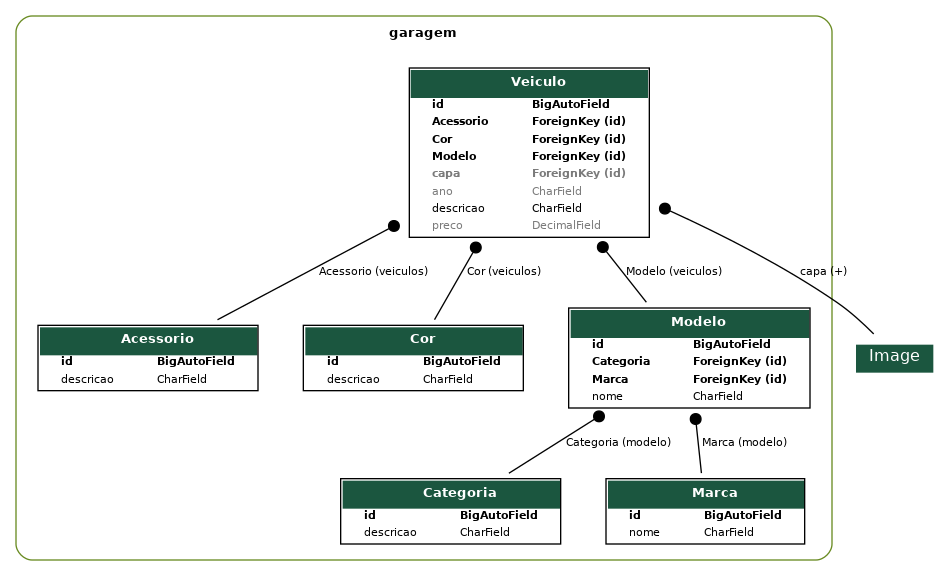
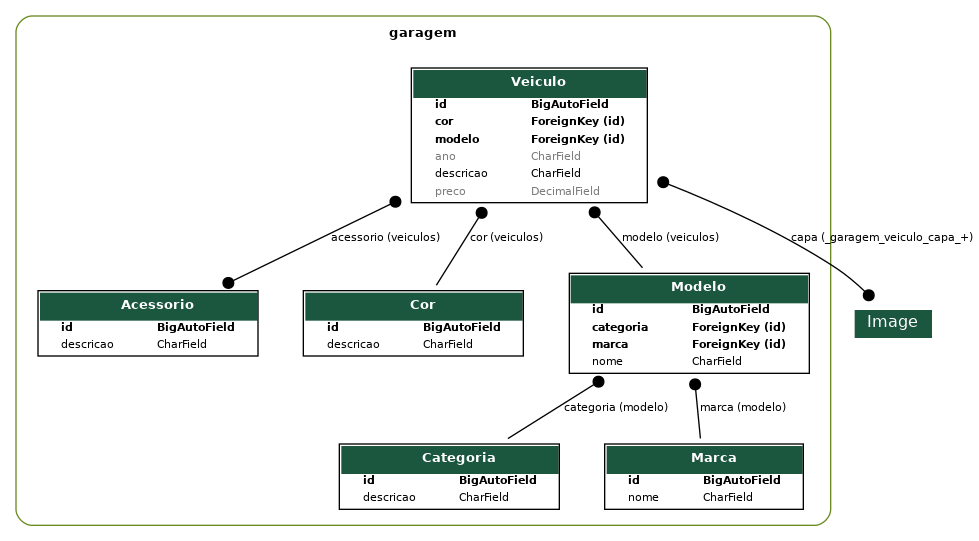
diagrama corrigido, problema em veículo na api

diff --git a/garagem/models/veiculo.py b/garagem/models/veiculo.py
@@ -4,21 +4,13 @@ from garagem.models import Acessorio, Modelo, Cor
 
 
 class Veiculo(models.Model):
-    Acessorio = models.ForeignKey(Acessorio, on_delete=models.PROTECT, related_name="veiculos")
-    Modelo = models.ForeignKey(Modelo, on_delete=models.PROTECT, related_name="veiculos")
-    Cor = models.ForeignKey(Cor, on_delete=models.PROTECT, related_name="veiculos")
+    acessorio = models.ManyToManyField(Acessorio, related_name="veiculos")
+    modelo = models.ForeignKey(Modelo, on_delete=models.PROTECT, related_name="veiculos")
+    cor = models.ForeignKey(Cor, on_delete=models.PROTECT, related_name="veiculos")
     ano = models.CharField(max_length=32, null=True, blank=True)
     preco = models.DecimalField(max_digits=7, decimal_places=2, default=0, null=True, blank=True)
     descricao = models.CharField(max_length=50)
+    capa = models.ManyToManyField(Image, related_name="+")
 
     def __str__(self):
         return self.descricao
-    
-    capa = models.ForeignKey(
-        Image,
-        related_name="+",
-        on_delete=models.CASCADE,
-        null=True,
-        blank=True,
-        default=None,
-    )

diff --git a/garagem/models/modelo.py b/garagem/models/modelo.py
@@ -3,8 +3,8 @@ from django.db import models
 from garagem.models import Categoria, Marca
     
 class Modelo(models.Model):
-    Categoria = models.ForeignKey(Categoria, on_delete=models.PROTECT, related_name="modelo")
-    Marca = models.ForeignKey(Marca, on_delete=models.PROTECT, related_name="modelo")
+    categoria = models.ForeignKey(Categoria, on_delete=models.PROTECT, related_name="modelo")
+    marca = models.ForeignKey(Marca, on_delete=models.PROTECT, related_name="modelo")
     nome = models.CharField(max_length=50)
 
     def __str__(self):

diff --git a/garagem/serializers/Veiculo.py b/garagem/serializers/Veiculo.py
@@ -1,8 +1,5 @@
-from rest_framework.serializers import ModelSerializer
-
-from garagem.models import Veiculo
-
 from rest_framework.serializers import ModelSerializer, SlugRelatedField
+from garagem.models import Veiculo
 
 from uploader.models import Image
 from uploader.serializers import ImageSerializer

diff --git a/garagem/models/acessorio.py b/garagem/models/acessorio.py
@@ -5,3 +5,7 @@ class Acessorio(models.Model):
 
     def __str__(self):
         return self.descricao
+
+    class Meta:
+        verbose_name = "Acessório"
+        verbose_name_plural = "Acessórios"
